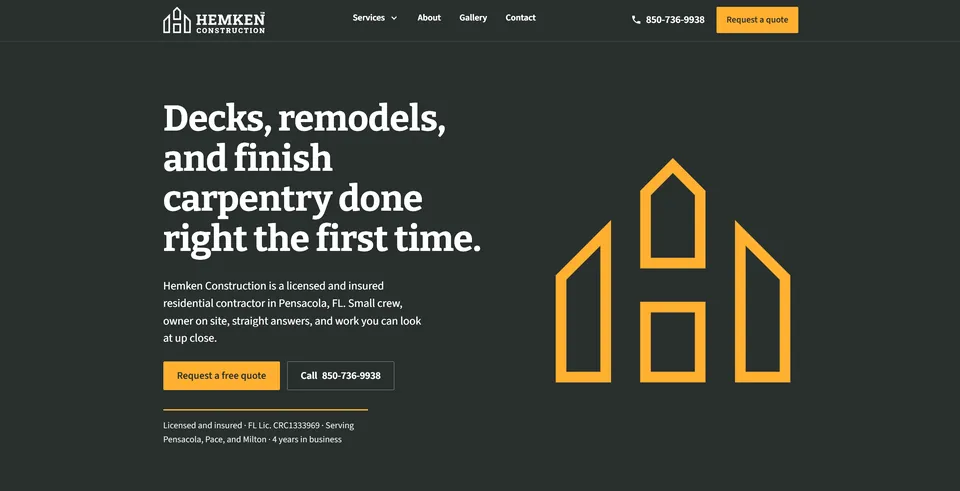
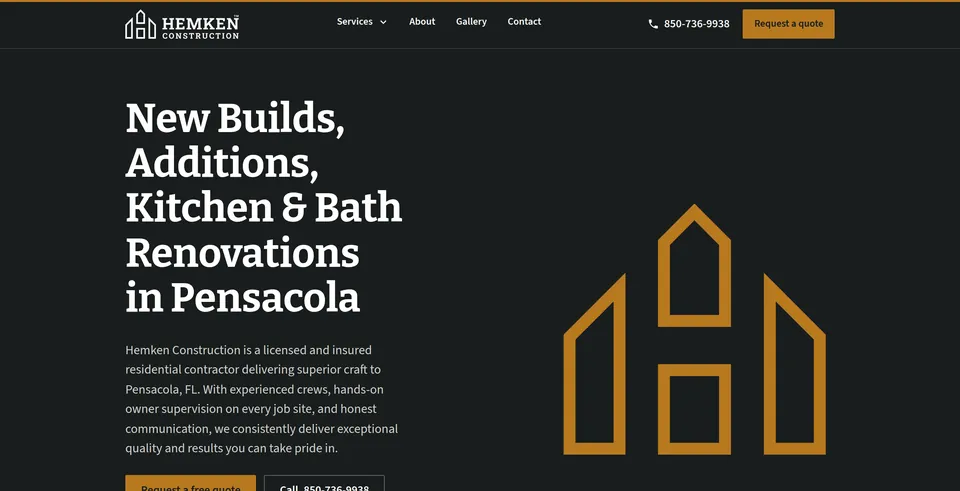
Portfolio: 3 new clients, Magnolias to Mobile AL, Hemken repositioned
- Add Northwest Florida Tree Care (tree care), Lovelee Interiors LLC
  (interior design), and Shoreline Solar Solutions (solar) — all
  Pensacola, FL. Client count 7 -> 10 across marquee, counter, lede, and
  meta descriptions (EN + ES)
- Magnolia Outdoor Living and Magnolia Painting relocated to Mobile, AL
  (verified against both clients' site repos: Mobile is the primary
  service area for each); trust framing now 'Gulf Coast businesses';
  JSON-LD areaServed gains Alabama
- Hemken case study updated to their current positioning ('New builds,
  additions, kitchen & bath renovations', per hsai-hemkenconstruction
  client.config.json) with a fresh screenshot rendered from their
  current site build

Claude-Session: https://claude.ai/code/session_01ManXa3WGZJbiG11yWhXDuS

Changed region(s): [[0.125, 0.1833, 0.5, 1.0], [0.5625, 0.3055, 0.875, 0.947], [0.0, 0.0, 1.0, 0.0916]]

diff --git a/production-site/index.html b/production-site/index.html
@@ -5,7 +5,7 @@
   <script>window.dataLayer=window.dataLayer||[];function gtag(){dataLayer.push(arguments);}gtag('js',new Date());gtag('config','AW-17881834711');</script>
   <meta charset="UTF-8">
   <meta name="viewport" content="width=device-width, initial-scale=1.0">
-  <meta name="description" content="High Stakes — websites, local SEO, and done-for-you ads for home-service contractors in Pensacola, FL. Trusted by seven local businesses. Hablamos español.">
+  <meta name="description" content="High Stakes — websites, local SEO, and done-for-you ads for home-service contractors in Pensacola, FL. Trusted by ten Gulf Coast businesses. Hablamos español.">
   <title>Websites, Local SEO &amp; Ads in Pensacola, FL | High Stakes</title>
   <link rel="canonical" href="https://histakesai.com/">
   <link rel="alternate" hreflang="en" href="https://histakesai.com/">
@@ -22,14 +22,14 @@
   <meta property="og:site_name" content="High Stakes">
   <meta property="og:locale" content="en_US">
   <meta property="og:title" content="Websites, Local SEO & Ads in Pensacola, FL | High Stakes">
-  <meta property="og:description" content="Websites, local SEO, and done-for-you ads for home-service contractors. Trusted by seven Pensacola-area businesses.">
+  <meta property="og:description" content="Websites, local SEO, and done-for-you ads for home-service contractors. Trusted by ten Gulf Coast businesses.">
   <meta property="og:url" content="https://histakesai.com/">
   <meta property="og:image" content="https://histakesai.com/og-image.png">
   <meta property="og:image:width" content="1200">
   <meta property="og:image:height" content="630">
   <meta name="twitter:card" content="summary_large_image">
   <meta name="twitter:title" content="Websites, Local SEO & Ads in Pensacola, FL | High Stakes">
-  <meta name="twitter:description" content="Websites, local SEO, and done-for-you ads for home-service contractors. Trusted by seven Pensacola-area businesses.">
+  <meta name="twitter:description" content="Websites, local SEO, and done-for-you ads for home-service contractors. Trusted by ten Gulf Coast businesses.">
   <meta name="twitter:image" content="https://histakesai.com/og-image.png">
 
   <link rel="preload" as="font" type="font/woff2" href="/fonts/inter-latin-var.woff2" crossorigin>
@@ -49,7 +49,7 @@
     "image": "https://histakesai.com/og-image.png",
     "telephone": "+18509432040",
     "address": { "@type": "PostalAddress", "addressLocality": "Pensacola", "addressRegion": "FL", "addressCountry": "US" },
-    "areaServed": [ { "@type": "State", "name": "Florida" }, { "@type": "State", "name": "Texas" } ],
+    "areaServed": [ { "@type": "State", "name": "Florida" }, { "@type": "State", "name": "Alabama" }, { "@type": "State", "name": "Texas" } ],
     "description": "Websites, local SEO, and done-for-you ads + social media for home-service contractors.",
     "knowsLanguage": ["en", "es"],
     "priceRange": "$$",
@@ -114,7 +114,7 @@
 <div class="marq" aria-hidden="true">
   <div class="marq-track">
     <div class="marq-set">
-      <span><b>7</b> businesses on retainer</span><i>◆</i>
+      <span><b>10</b> businesses on retainer</span><i>◆</i>
       <span>Loved by <b>Pensacola</b> businesses</span><i>◆</i>
       <span><b>98%</b> retention</span><i>◆</i>
       <span>Pensacola, FL</span><i>◆</i>
@@ -122,7 +122,7 @@
       <span lang="es">Hablamos español</span><i>◆</i>
     </div>
     <div class="marq-set">
-      <span><b>7</b> businesses on retainer</span><i>◆</i>
+      <span><b>10</b> businesses on retainer</span><i>◆</i>
       <span>Loved by <b>Pensacola</b> businesses</span><i>◆</i>
       <span><b>98%</b> retention</span><i>◆</i>
       <span>Pensacola, FL</span><i>◆</i>
@@ -138,18 +138,21 @@
   <div class="wrap">
     <p class="eyebrow rv">Portfolio</p>
     <h2 class="rv">Some of our clients.</h2>
-    <p class="lede rv rv2">Trusted by seven Pensacola-area businesses — and counting.</p>
+    <p class="lede rv rv2">Trusted by ten businesses across the Gulf Coast — and counting.</p>
     <div class="client-list">
       <div class="client-row rv"><span class="idx">01</span><span class="name">The Golden Plumber <span class="cs">— Case study ↓</span></span><span class="trade">Plumbing</span><span class="city">Pensacola, FL</span></div>
       <div class="client-row rv"><span class="idx">02</span><span class="name">Professional Painting Services <span class="cs">— Case study ↓</span></span><span class="trade">Painting</span><span class="city">Pensacola, FL</span></div>
       <div class="client-row rv"><span class="idx">03</span><span class="name">Hemken Construction <span class="cs">— Case study ↓</span></span><span class="trade">Construction</span><span class="city">Pensacola, FL</span></div>
       <div class="client-row rv"><span class="idx">04</span><span class="name">Miller Heating and Cooling</span><span class="trade">HVAC</span><span class="city">Navarre, FL</span></div>
-      <div class="client-row rv"><span class="idx">05</span><span class="name">Magnolia Outdoor Living</span><span class="trade">Landscaping</span><span class="city">Pensacola, FL</span></div>
-      <div class="client-row rv"><span class="idx">06</span><span class="name">Magnolia Painting</span><span class="trade">Painting</span><span class="city">Pensacola, FL</span></div>
+      <div class="client-row rv"><span class="idx">05</span><span class="name">Magnolia Outdoor Living</span><span class="trade">Landscaping</span><span class="city">Mobile, AL</span></div>
+      <div class="client-row rv"><span class="idx">06</span><span class="name">Magnolia Painting</span><span class="trade">Painting</span><span class="city">Mobile, AL</span></div>
       <div class="client-row rv"><span class="idx">07</span><span class="name">Valeria McFarland Image Consulting</span><span class="trade">Image consulting</span><span class="city">Pensacola, FL</span></div>
+      <div class="client-row rv"><span class="idx">08</span><span class="name">Northwest Florida Tree Care</span><span class="trade">Tree care</span><span class="city">Pensacola, FL</span></div>
+      <div class="client-row rv"><span class="idx">09</span><span class="name">Lovelee Interiors LLC</span><span class="trade">Interior design</span><span class="city">Pensacola, FL</span></div>
+      <div class="client-row rv"><span class="idx">10</span><span class="name">Shoreline Solar Solutions</span><span class="trade">Solar</span><span class="city">Pensacola, FL</span></div>
     </div>
     <div class="stats">
-      <div class="stat rv"><div class="n"><span data-count="7">0</span></div><div class="l">Active clients</div></div>
+      <div class="stat rv"><div class="n"><span data-count="10">0</span></div><div class="l">Active clients</div></div>
       <div class="stat rv rv2"><div class="n"><span data-count="98">0</span><i>%</i></div><div class="l">Client retention</div></div>
       <div class="stat rv rv3"><div class="n">&lt;1<i>wk</i></div><div class="l">To launch</div></div>
     </div>
@@ -199,7 +202,7 @@
           <div class="k">Construction — Pensacola, FL</div>
           <h3>Hemken Construction</h3>
           <div class="svcline">Custom website</div>
-          <p class="work-desc">Decks, remodels, and finish carpentry — a licensed and insured residential contractor serving Pensacola, Pace, and Milton, now with a website that works as hard as the crew does.</p>
+          <p class="work-desc">New builds, additions, and kitchen & bath renovations — a licensed and insured residential contractor serving Pensacola, Pace, and Milton, now with a website that works as hard as the crews do.</p>
           <div class="work-stats">
             <div><div class="n">Custom</div><div class="l">Web design</div></div>
             <div><div class="n">Live</div><div class="l">Now launched</div></div>

diff --git a/production-site/es/index.html b/production-site/es/index.html
@@ -5,7 +5,7 @@
   <script>window.dataLayer=window.dataLayer||[];function gtag(){dataLayer.push(arguments);}gtag('js',new Date());gtag('config','AW-17881834711');</script>
   <meta charset="UTF-8">
   <meta name="viewport" content="width=device-width, initial-scale=1.0">
-  <meta name="description" content="High Stakes — páginas web, SEO local y publicidad hecha por nosotros para contratistas en Pensacola, FL. Siete negocios locales confían en nosotros. Hablamos español.">
+  <meta name="description" content="High Stakes — páginas web, SEO local y publicidad hecha por nosotros para contratistas en Pensacola, FL. Diez negocios de la Costa del Golfo confían en nosotros. Hablamos español.">
   <title>Páginas Web, SEO Local y Anuncios en Pensacola, FL | High Stakes</title>
   <link rel="canonical" href="https://histakesai.com/es/">
   <link rel="alternate" hreflang="en" href="https://histakesai.com/">
@@ -23,7 +23,7 @@
   <meta property="og:locale" content="es_US">
   <meta property="og:locale:alternate" content="en_US">
   <meta property="og:title" content="Páginas Web, SEO Local y Anuncios en Pensacola, FL | High Stakes">
-  <meta property="og:description" content="Páginas web, SEO local y publicidad hecha por nosotros para contratistas. Siete negocios de Pensacola confían en nosotros.">
+  <meta property="og:description" content="Páginas web, SEO local y publicidad hecha por nosotros para contratistas. Diez negocios de la Costa del Golfo confían en nosotros.">
   <meta property="og:url" content="https://histakesai.com/es/">
   <meta property="og:image" content="https://histakesai.com/og-image.png">
   <meta property="og:image:width" content="1200">
@@ -50,7 +50,7 @@
     "image": "https://histakesai.com/og-image.png",
     "telephone": "+18509432040",
     "address": { "@type": "PostalAddress", "addressLocality": "Pensacola", "addressRegion": "FL", "addressCountry": "US" },
-    "areaServed": [ { "@type": "State", "name": "Florida" }, { "@type": "State", "name": "Texas" } ],
+    "areaServed": [ { "@type": "State", "name": "Florida" }, { "@type": "State", "name": "Alabama" }, { "@type": "State", "name": "Texas" } ],
     "description": "Páginas web, SEO local y publicidad + redes sociales para contratistas de servicios del hogar.",
     "knowsLanguage": ["en", "es"],
     "priceRange": "$$",
@@ -104,7 +104,7 @@
 <div class="marq" aria-hidden="true">
   <div class="marq-track">
     <div class="marq-set">
-      <span><b>7</b> negocios activos</span><i>◆</i>
+      <span><b>10</b> negocios activos</span><i>◆</i>
       <span>Queridos por negocios de <b>Pensacola</b></span><i>◆</i>
       <span><b>98%</b> de retención</span><i>◆</i>
       <span>Pensacola, FL</span><i>◆</i>
@@ -112,7 +112,7 @@
       <span>Hablamos español</span><i>◆</i>
     </div>
     <div class="marq-set">
-      <span><b>7</b> negocios activos</span><i>◆</i>
+      <span><b>10</b> negocios activos</span><i>◆</i>
       <span>Queridos por negocios de <b>Pensacola</b></span><i>◆</i>
       <span><b>98%</b> de retención</span><i>◆</i>
       <span>Pensacola, FL</span><i>◆</i>
@@ -128,18 +128,21 @@
   <div class="wrap">
     <p class="eyebrow rv">Portafolio</p>
     <h2 class="rv">Algunos de nuestros clientes.</h2>
-    <p class="lede rv rv2">Siete negocios del área de Pensacola confían en nosotros — y contando.</p>
+    <p class="lede rv rv2">Diez negocios de la Costa del Golfo confían en nosotros — y contando.</p>
     <div class="client-list">
       <div class="client-row rv"><span class="idx">01</span><span class="name">The Golden Plumber <span class="cs">— Caso de éxito ↓</span></span><span class="trade">Plomería</span><span class="city">Pensacola, FL</span></div>
       <div class="client-row rv"><span class="idx">02</span><span class="name">Professional Painting Services <span class="cs">— Caso de éxito ↓</span></span><span class="trade">Pintura</span><span class="city">Pensacola, FL</span></div>
       <div class="client-row rv"><span class="idx">03</span><span class="name">Hemken Construction <span class="cs">— Caso de éxito ↓</span></span><span class="trade">Construcción</span><span class="city">Pensacola, FL</span></div>
       <div class="client-row rv"><span class="idx">04</span><span class="name">Miller Heating and Cooling</span><span class="trade">Aire acondicionado</span><span class="city">Navarre, FL</span></div>
-      <div class="client-row rv"><span class="idx">05</span><span class="name">Magnolia Outdoor Living</span><span class="trade">Paisajismo</span><span class="city">Pensacola, FL</span></div>
-      <div class="client-row rv"><span class="idx">06</span><span class="name">Magnolia Painting</span><span class="trade">Pintura</span><span class="city">Pensacola, FL</span></div>
+      <div class="client-row rv"><span class="idx">05</span><span class="name">Magnolia Outdoor Living</span><span class="trade">Paisajismo</span><span class="city">Mobile, AL</span></div>
+      <div class="client-row rv"><span class="idx">06</span><span class="name">Magnolia Painting</span><span class="trade">Pintura</span><span class="city">Mobile, AL</span></div>
       <div class="client-row rv"><span class="idx">07</span><span class="name">Valeria McFarland Image Consulting</span><span class="trade">Consultoría de imagen</span><span class="city">Pensacola, FL</span></div>
+      <div class="client-row rv"><span class="idx">08</span><span class="name">Northwest Florida Tree Care</span><span class="trade">Cuidado de árboles</span><span class="city">Pensacola, FL</span></div>
+      <div class="client-row rv"><span class="idx">09</span><span class="name">Lovelee Interiors LLC</span><span class="trade">Diseño de interiores</span><span class="city">Pensacola, FL</span></div>
+      <div class="client-row rv"><span class="idx">10</span><span class="name">Shoreline Solar Solutions</span><span class="trade">Energía solar</span><span class="city">Pensacola, FL</span></div>
     </div>
     <div class="stats">
-      <div class="stat rv"><div class="n"><span data-count="7">0</span></div><div class="l">Clientes activos</div></div>
+      <div class="stat rv"><div class="n"><span data-count="10">0</span></div><div class="l">Clientes activos</div></div>
       <div class="stat rv rv2"><div class="n"><span data-count="98">0</span><i>%</i></div><div class="l">Retención</div></div>
       <div class="stat rv rv3"><div class="n">&lt;1<i>sem</i></div><div class="l">Para lanzar</div></div>
     </div>
@@ -189,7 +192,7 @@
           <div class="k">Construcción — Pensacola, FL</div>
           <h3>Hemken Construction</h3>
           <div class="svcline">Página web a medida</div>
-          <p class="work-desc">Terrazas, remodelaciones y carpintería de acabado — un contratista residencial con licencia y seguro que atiende Pensacola, Pace y Milton, ahora con una página web que trabaja tan duro como su equipo.</p>
+          <p class="work-desc">Obras nuevas, ampliaciones y remodelaciones de cocina y baño — un contratista residencial con licencia y seguro que atiende Pensacola, Pace y Milton, ahora con una página web que trabaja tan duro como sus equipos.</p>
           <div class="work-stats">
             <div><div class="n">A medida</div><div class="l">Diseño web</div></div>
             <div><div class="n">En línea</div><div class="l">Ya lanzada</div></div>
